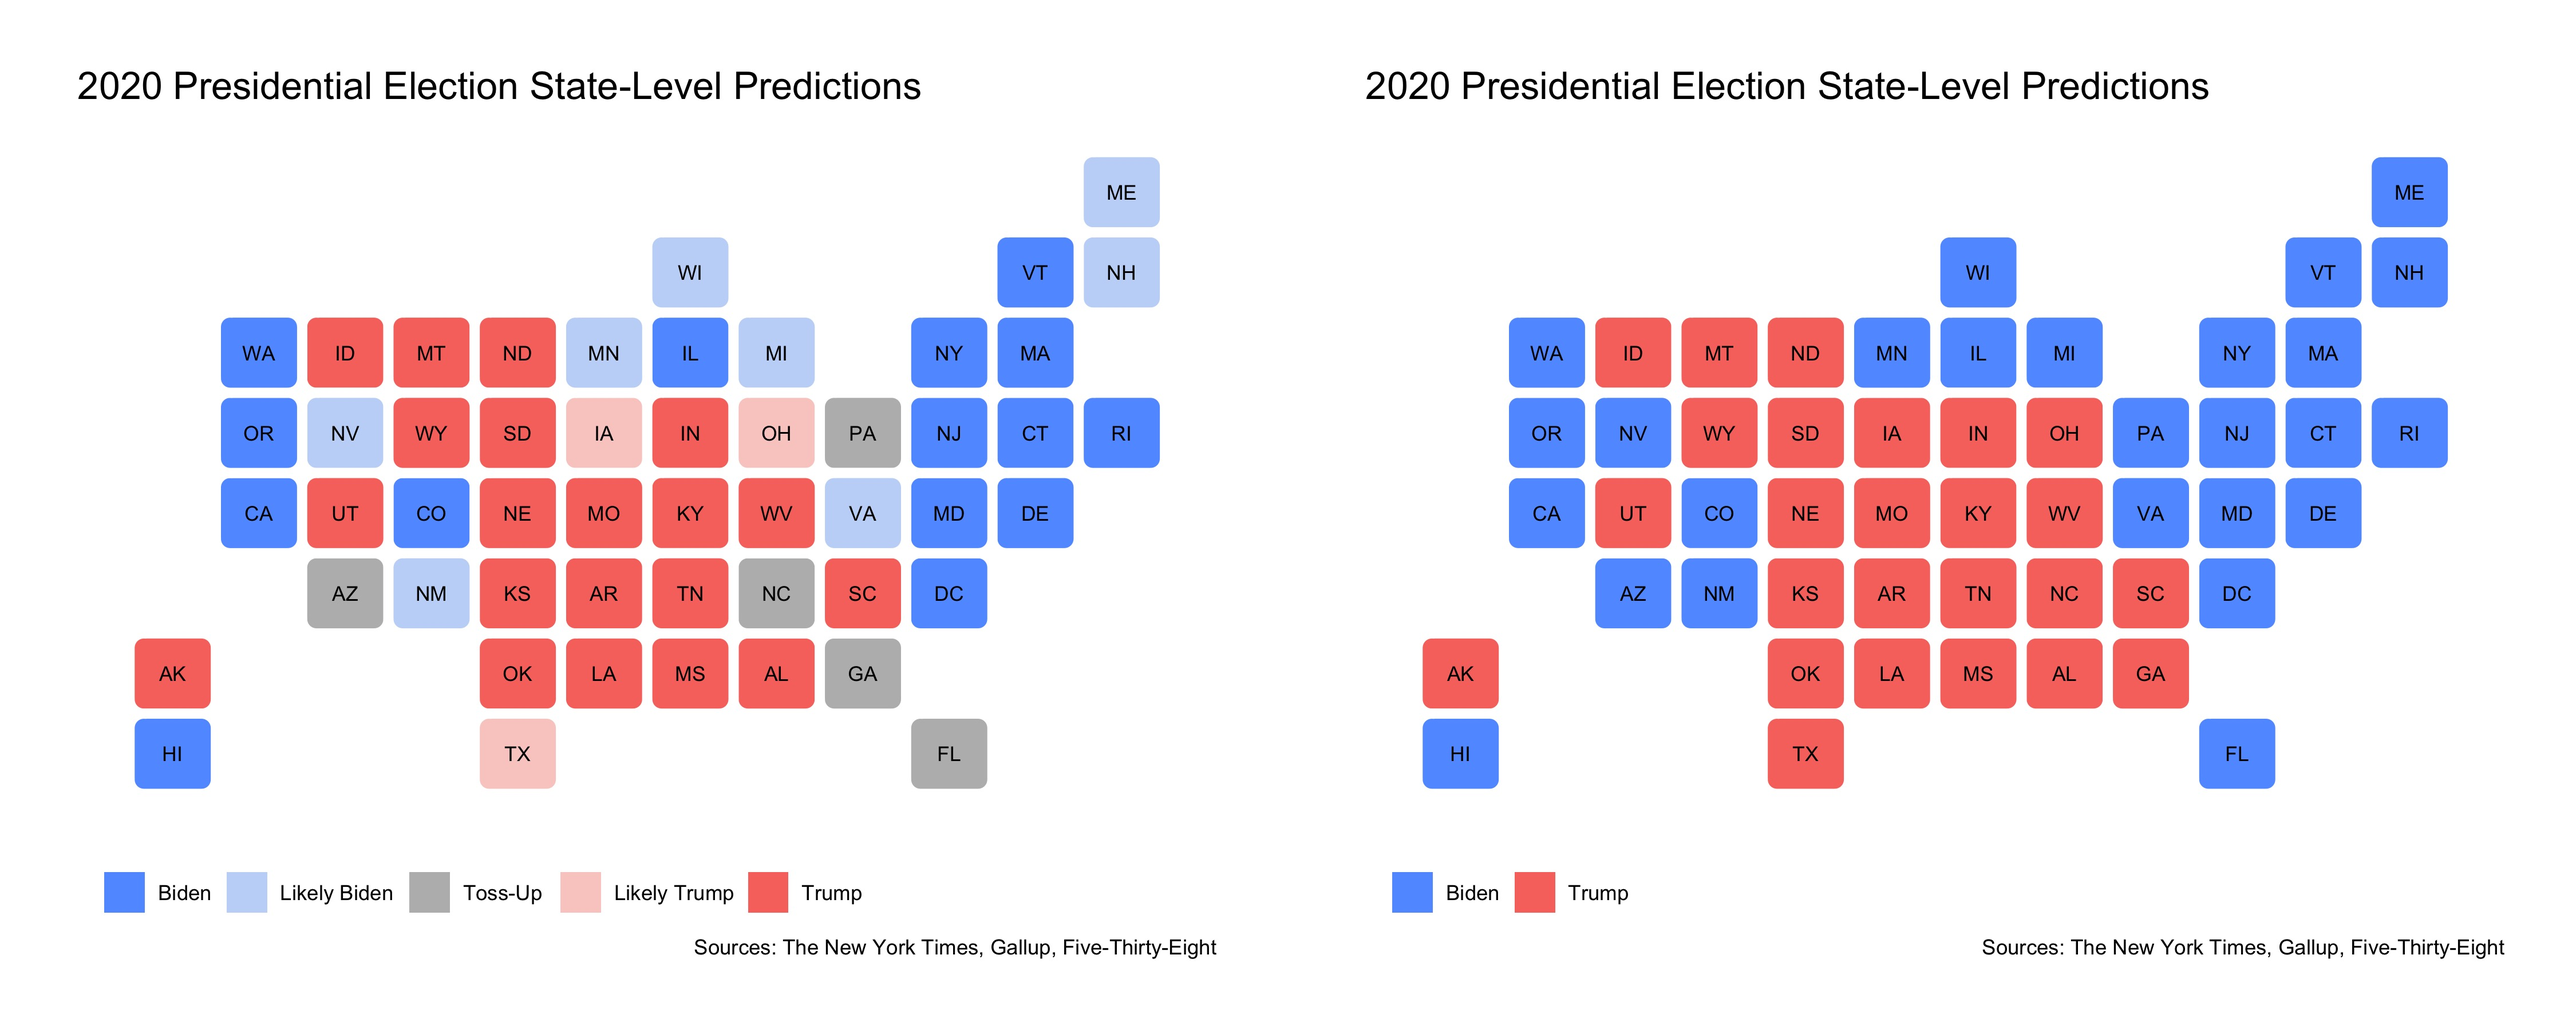
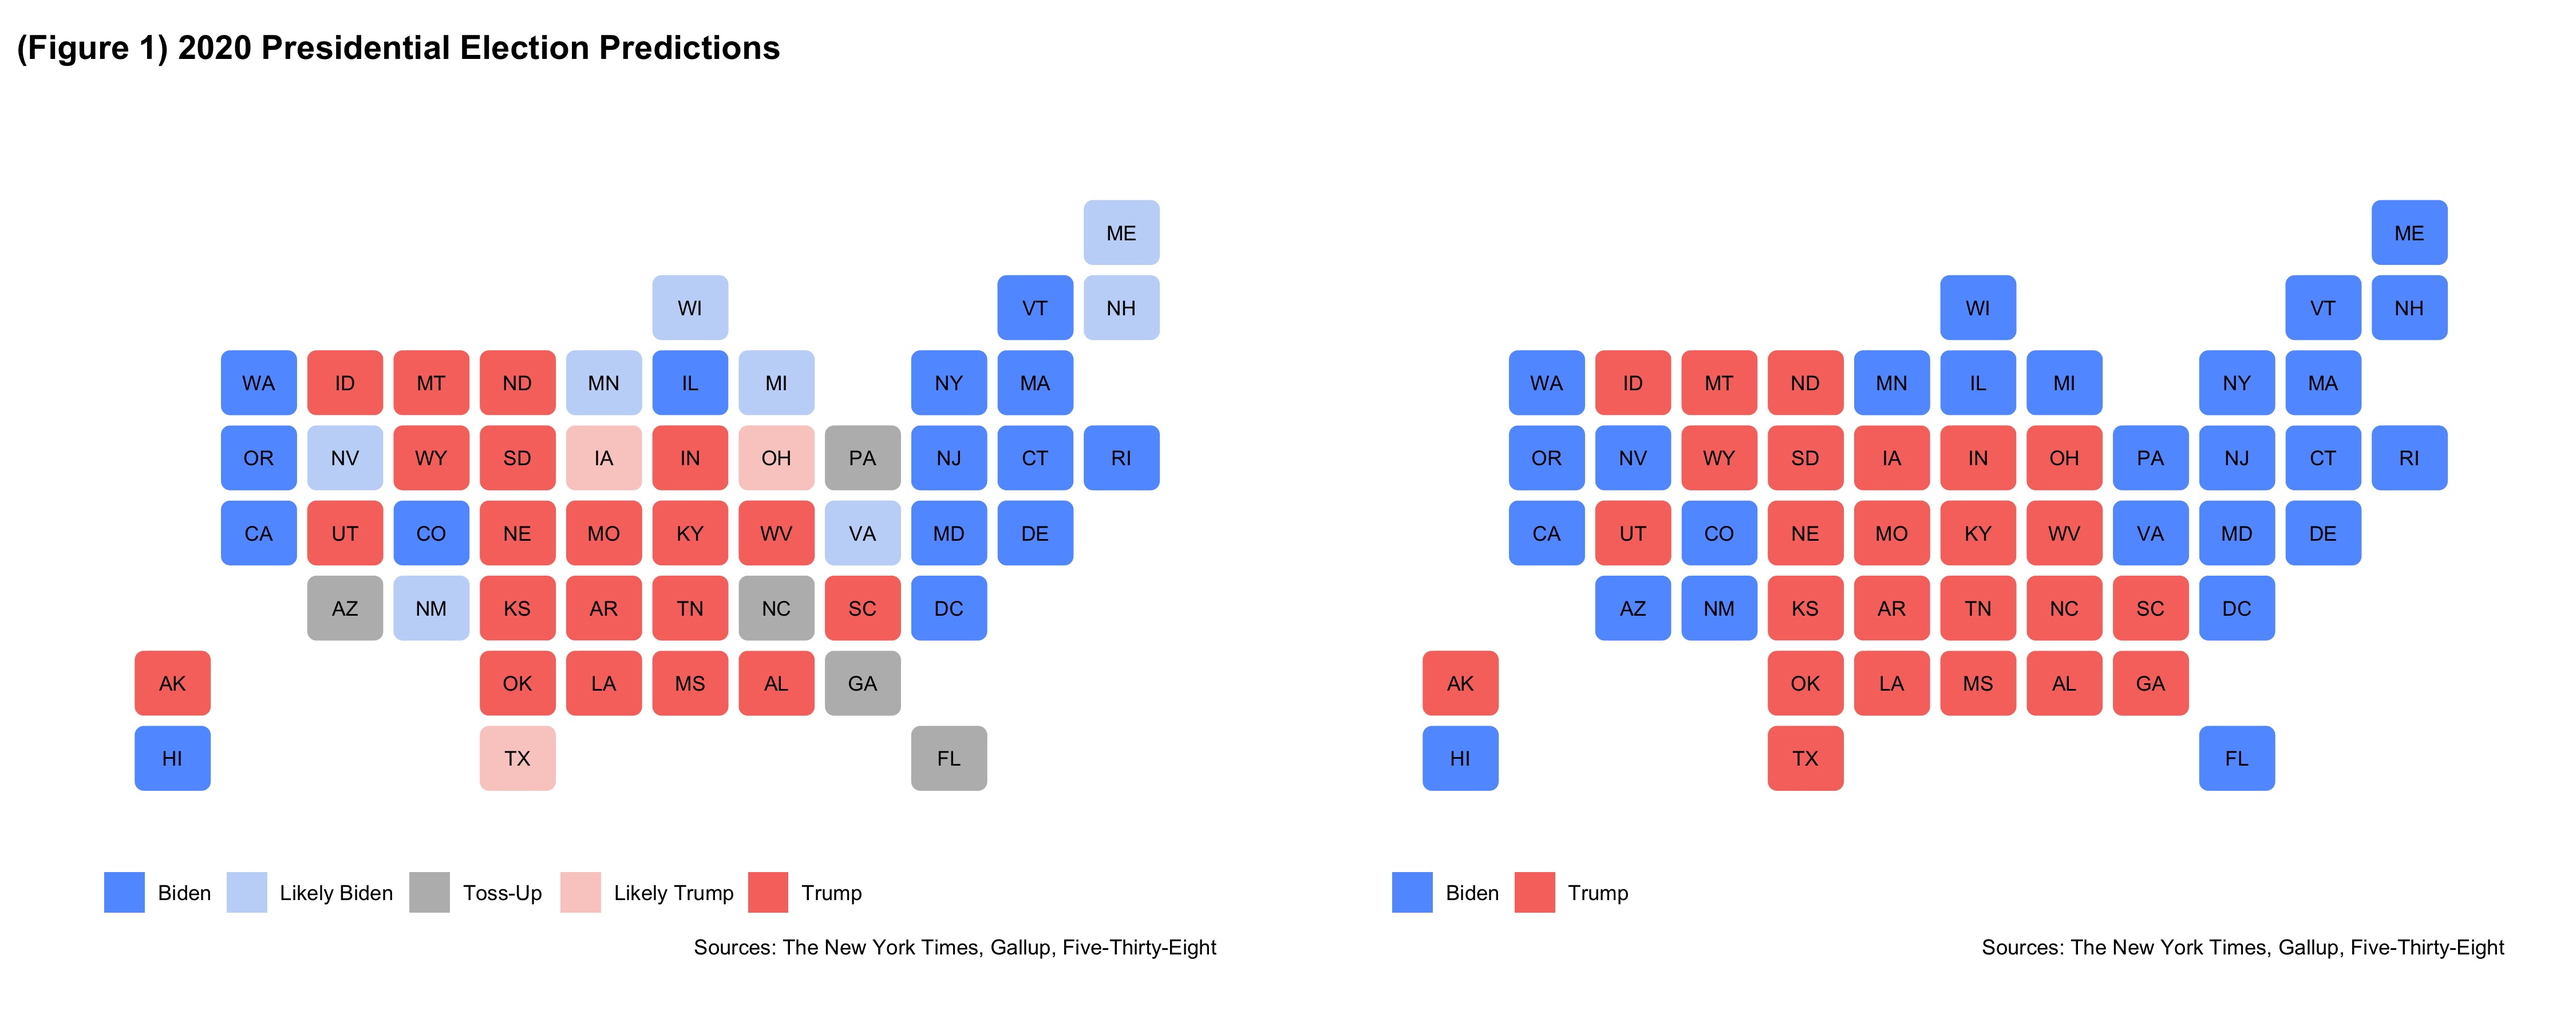
Added another section

diff --git a/posts/predictionreflection.md b/posts/predictionreflection.md
@@ -30,39 +30,35 @@ Additionally, my model had an RMSE of 1.969 and a Brier Score of 3.876. The RMSE
 
 ### Source of Error
 
-I hypothesize that polling inaccuracy and short-term historical voting trends were my model's sources of error. 
+I hypothesize that polling inaccuracy and the use of short-term historical voting trends were my model's sources of error. 
 
-Because Trump narrowly won Florida in 2016, it is most likely the state's polling that led to my incorrect prediction of Biden winning. 
+Because Trump narrowly won Florida in 2016, it is most likely Trump's low polling average of 46.9% led to my incorrect prediction of Biden winning. [Quinnipiac, along with many other notable pollsters, predicted Democratic wins](https://news.wjct.org/post/look-why-florida-presidential-polls-were-wrong) in the state of Florida for Hillary Clinton in the 2016 Presidential Election, Andrew Gillum in the 2018 gubernatorial race, Bill Nelson in the 2014 Senate race, and President-Elect Biden in this election. All of these were incorrect, as the Republican candidate won all four of these races in Florida. This consistency points to a systemic bias in the Democratic direction regarding Florida polls. This Democratic lean is not limited to the state of Florida:
 
-Quinnipaic and other predicted Democratic wins in the state of Florida for Hillary Clinton in the 2016 Presidential Election, Andrew Gillum in the 2018 gubernatorial race, Bill Nelson in the 2014 Senate race, and Biden in 2020. All of these were incorrect; Republicans won all four races in Florida. This points to a systemic error in the Democratic direction regarding Florida polls. 
+![](../figures/repubpoll.jpg)
 
-One reason for this could be a higher survey response from Democrats. Regarding this election, David Shorr said that Democrats began responding to polls at higher rates once we entered quarantining months for COVID-19, with the survey response rate for Democrats jumping from 12% to roughly 16%. This may have had a hand in inflating the polling numbers for Biden in Florida and across the country. You may note, however, that even 16% is not a high response rate. In general, low survey response rates are another reason that polling led to be a source of error. This non-response may be accentuated for Republicans, as a means of concealing their controversial political beliefs in a mixed, swing state like Florida. 
+The graph above displays the pre-election polling averages for each state in the 2012, 2016, and 2020 elections plotted against the state's true Republican vote shares. The majority of the points being to the left of the y = x line demonstrates how pollsters in 2012, 2016, and 2020 have consistently under-predicted the vote shares of Republican candidates. My other predictors did not successfully cancel out this polling error for Florida in 2020.
 
-Another reason was that polls did a poor job  of choosing a sample that is representative of the electorate. The 2020 presidential election saw record voter turnout on both sides. The unprecedented nature of cycle's turnout poses a difficult challenge for pollsters, who are tasking with choosing a sample that is representative for an electorate that isn't yet fully understood. In Florida, where the data for turnout is available, there are 1.5% more registered Democrats than Republicans. However, there were 2% more registered Republicans who voted than registered Democrats who voted. This help explains why pollsters underpredicted Trump in Florida: they may not have expected this surge of Republican voters in the state. It's also important to address Trump's surprising performance among Hispanic voters, particularly Cuban-Americans. It was anticipated that Biden would experience a landslide victory within this group, but in the end he may just barely win the Hispanic vote in Florida. 
+One reason for this Democratic polling bias in Florida and across the country for this election cycle may have been a disproportionately high survey response rate from Democrats. As the COVID-19 pandemic began and individuals spent their springs and summers in quarantine, [Democrats began to engage with polls and surveys at much higher rates](https://www.vox.com/policy-and-politics/2020/11/10/21551766/election-polls-results-wrong-david-shor). By connecting survey responses to voter files, it was revealed that there was a surge of survey responses from individuals who were linked to other Democratic institutions, such as being regular ActBlue donors. This phenomenon likely played a heavy hand in inflating polling numbers for Biden. I theorize that the opposite effect was present for Republican voters: the effect of voters falsifying their true preference for Trump due to social pressure and a lower civic engagement with polls and surveys deflated the true support for Trump in the state. 
 
-Another source of error was the way in which I incorporated historical voting trends. I believe that, for many states, using just the 2016 vote shares worked to my model's advantage. For example, my correct predictions for Iowa and North Carolina were likely anchored by Trump's win in the two states in 2016. For Georgia, however, Trump's win in 2016 is likely what led to my incorrect prediction for Trump. The poll averages I incorporated predicted a narrow win for Biden, which abets my theory that the 2016 vote shares offset this specific prediction. 
+Another reason for the Democratic polling bias was pollsters did a poor job of choosing a sample that is representative of the electorate. The 2020 Presidential Election saw record voter turnout on both sides. The unprecedented turnout of this cycle poses a difficult challenge for pollsters, who are tasked with choosing a sample that is representative for an electorate that wasn't yet fully understood. For example, the polling error. This may have been a factor in Trump's surprising performance among Hispanic voters, particularly Cuban-Americans. It was anticipated that Biden would experience a landslide victory within this group, but in the end he may just barely win the Hispanic vote in Florida. If the preferences of this group properly 
+
+Another source of error was the way in which I incorporated historical voting trends. I believe that, for many states, using just the 2016 vote shares worked to my model's advantage. For example, my correct predictions for Iowa and North Carolina were likely anchored by Trump's win in the two states in 2016. For Georgia, however, Trump's win in 2016 is likely what led to my incorrect prediction for Trump. The poll averages I incorporated predicted a narrow win for Biden in Georgia, which abets my theory that the 2016 vote shares offset this specific prediction. 
 
 ### Discussion
 
 
 If I were to redo my model, I would more aggressively vet, discard, and weight polls based on their 538 grades and previous accuracy, rather than averaging all polls like my model did. By more heavily weighting pollsters that have accurately predicted difficult-to-poll states like Florida in the past and discarding pollsters with a significant partisan lean, I may have been able to diminish the negative effect of the exaggerated polling for Biden.
 
-![](../figures/repubpoll.jpg)
-
-In the graph above, the majority of the points being to the left of the y = x line demonstrates how pollsters in 2012, 2016, and 2020 have consistently under-predicted the vote shares of Republican candidates. I would either transform the polling data, shifting it in the Republican direction to account for the highly consistent Democratic bias, or exclude polls with the strongest Democratic leans.
+As you can see in figure 4, pollsters since 2012 have consistently under-predicted Republican state vote shares in presidential elections. Another change I would make to my model is transforming the polling data, shifting it a couple of points in the Republican direction to account for the highly consistent Democratic bias in recent elections, or exclude polls with the strongest Democratic leans.
 
 
 
 
-- A recap of your model(s) and your predictions. [CHECK]
-
-- A description of the accuracy of the model(s), including any apparent patterns in the accuracy.  Graphics should be used here. [CHECK]
 
 - Proposed hypotheses for why the model(s) were inaccurate in the estimates or locations where it was inaccurate.  These reasons should not simply be statements of about the quality of the components of the model, e.g., “the polls were not good” or “economic growth was not a good predictor” but should instead be grounded hypotheses on why components of the model may not have been predictive or may not have been predictive in certain cases.
 
 - Proposed quantitative tests that could test these hypotheses, e.g., what data, if available, could allow you to test whether the reason proposed really did cause the inaccuracy in your model.  If there is no plausible test of the hypothesis, explain why.  You do not need to perform these tests or explain them in great detail (e.g., there is no need to write down an equation showing your exact test), just propose them.
 
-- A description of how you might change your model if you were to do it again.[CHECK]
 
 November 23 by 9PM. 
 
